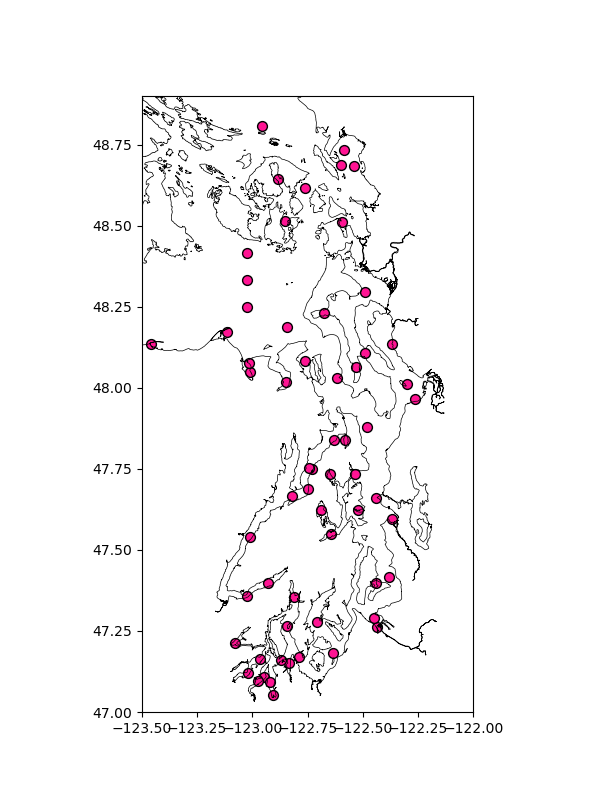
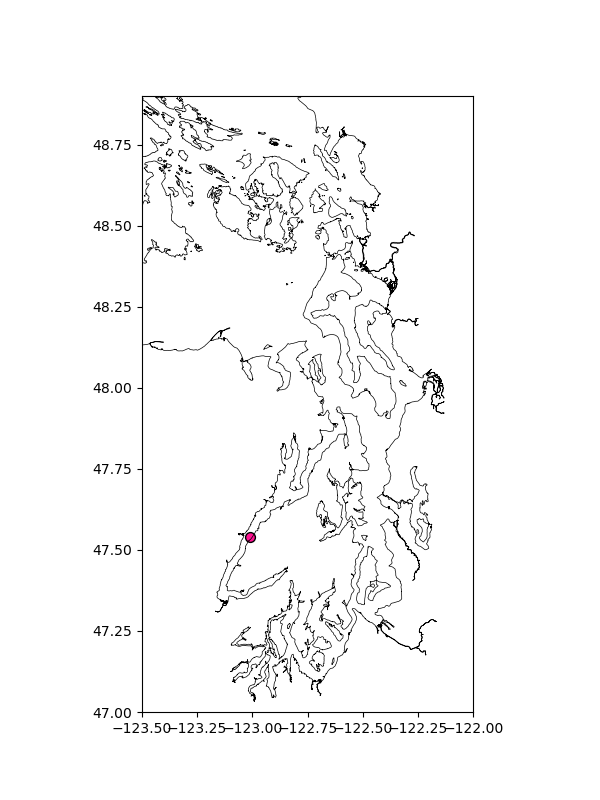
plot only hcb003

diff --git a/plotting/Ecology_monitoring_stations.py b/plotting/Ecology_monitoring_stations.py
@@ -12,13 +12,16 @@ import xarray as xr
 import cmocean
 from lo_tools import plotting_functions as pfun
 
+plt.close('all')
 
 # Read monitoring site locations
 fp = '../../LO_user/downloaded_data/EIM_monitoring_locations.csv'
 df = pd.read_csv(fp)
 
-lat = df['Calculated_Latitude_Decimal_Degrees_NAD83HARN']
-lon = df['Calculated_Longitude_Decimal_Degrees_NAD83HARN']
+
+lat = df.loc[df.Location_Name == 'HCB003','Calculated_Latitude_Decimal_Degrees_NAD83HARN']
+lon = df.loc[df.Location_Name == 'HCB003','Calculated_Longitude_Decimal_Degrees_NAD83HARN']
+
 
 fig = plt.figure(figsize=(6,8))
 ax = fig.add_subplot(111)